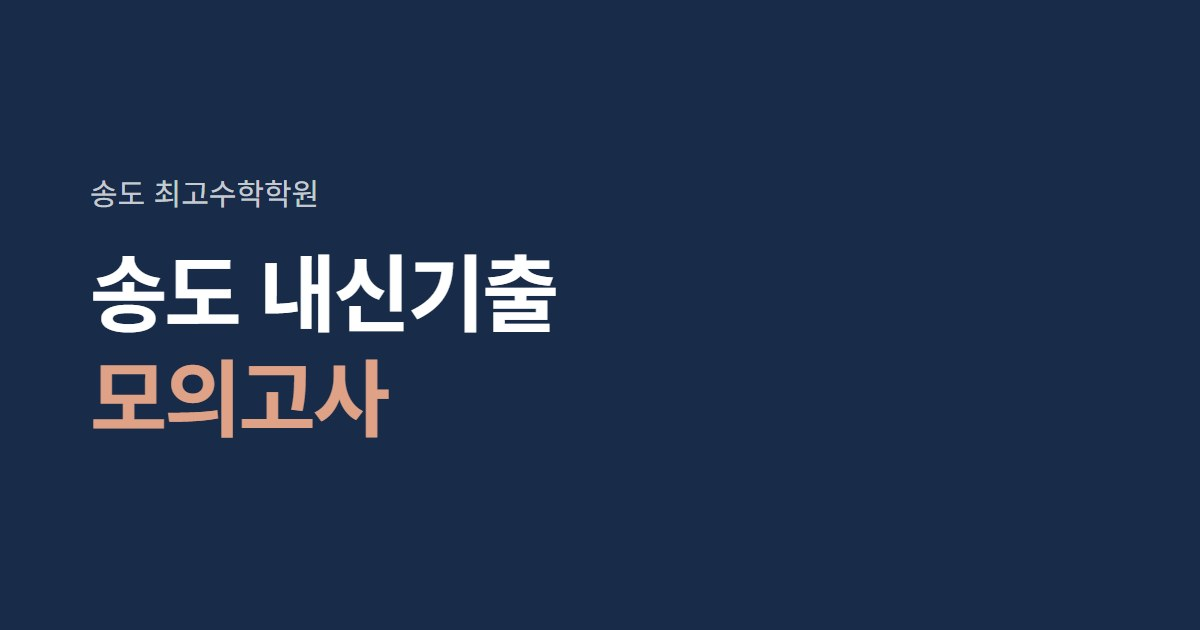
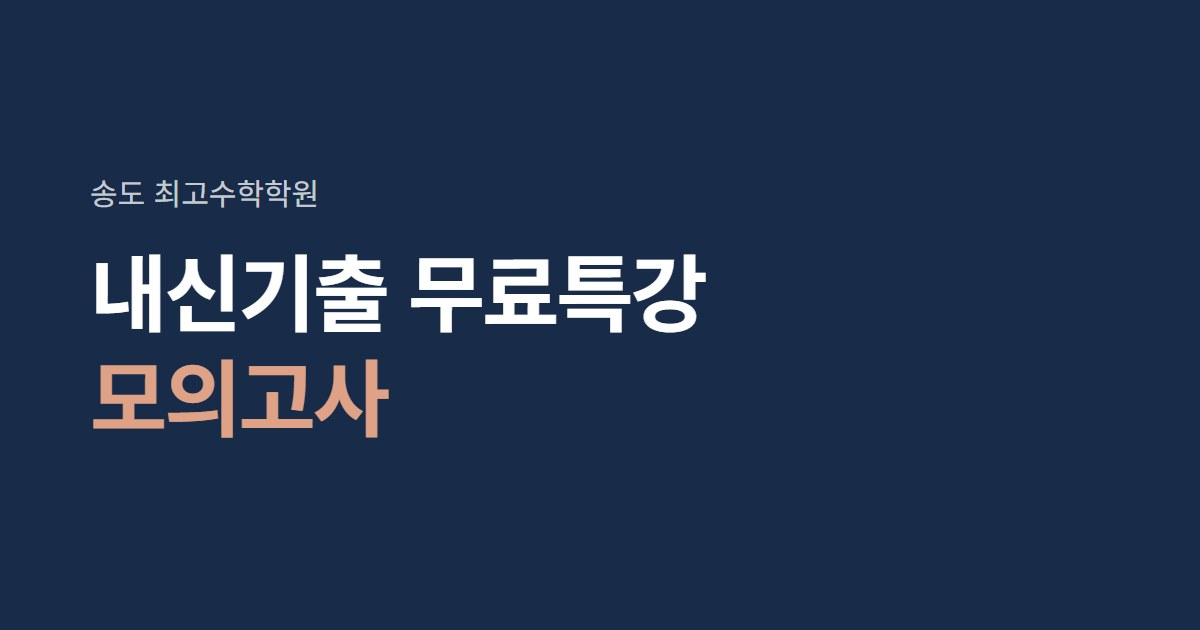
내신기출 무료특강·모의고사 신청 통합

Changed region(s): [[0.0617, 0.3921, 0.5858, 0.5429]]

diff --git a/mock-exam/index.html b/mock-exam/index.html
@@ -3,11 +3,11 @@
 <head>
 <meta charset="utf-8">
 <meta name="viewport" content="width=device-width,initial-scale=1,viewport-fit=cover">
-<title>송도 내신기출 모의고사 신청 · 송도 최고수학학원</title>
-<meta name="description" content="매주 토요일 예비고1 재원생 대상 송도 내신기출 모의고사 신청">
+<title>내신기출 무료특강·모의고사 신청 · 송도 최고수학학원</title>
+<meta name="description" content="해설강의 일정 안내와 송도 내신기출 모의고사·무료특강 신청">
 <meta property="og:type" content="website">
-<meta property="og:title" content="송도 내신기출 모의고사 신청">
-<meta property="og:description" content="매주 토요일 10:00 · 11:00 · 12:00 · 13:00 · 예비고1 재원생">
+<meta property="og:title" content="내신기출 무료특강·모의고사 신청">
+<meta property="og:description" content="11/14 ~ 12/19 · 학교별 해설강의 일정과 신청">
 <meta property="og:url" content="https://best-eight-gold.vercel.app/mock-exam/">
 <meta property="og:image" content="https://best-eight-gold.vercel.app/mock-exam/og.jpg?v=20261031">
 <meta property="og:image:width" content="1200">
@@ -67,6 +67,10 @@ h2{font-size:21px;font-weight:700;letter-spacing:-.5px;margin-top:6px}
 .two{display:grid;grid-template-columns:1fr 1fr;gap:10px}
 .slots{margin-top:8px;display:grid;grid-template-columns:1fr 1fr;gap:8px}
 .slots.t4{grid-template-columns:repeat(4,1fr)}
+.slots.t3{grid-template-columns:repeat(3,1fr)}
+.sch{width:100%;border-collapse:collapse;margin-top:14px;font-size:14px;border-top:1px solid var(--navy)}
+.sch th,.sch td{padding:8px 4px;border-bottom:1px solid var(--line);text-align:left;white-space:nowrap}
+.sch th{color:var(--sub);font-weight:500;font-size:13px}
 .sd{grid-column:1/-1;font-size:13.5px;font-weight:700;margin-top:6px}
 .slots label{position:relative;border:1px solid var(--mute);padding:11px 4px;text-align:center;font-size:14.5px;cursor:pointer;white-space:nowrap;background:#fff}
 .slots input{position:absolute;opacity:0;pointer-events:none}
@@ -95,7 +99,7 @@ header.hub h1{font-size:26px;margin-top:18px}
 .tile{position:relative;display:block;background:var(--paper);color:inherit;text-decoration:none;padding:14px 44px 14px 16px;margin-bottom:10px}
 .tile:active{background:var(--line)}
 @media (hover:hover){.tile:hover{background:var(--line)}}
-.tile .tt{display:block;font-size:17px;font-weight:700;letter-spacing:-.4px;white-space:nowrap}
+.tile .tt{display:block;font-size:16.5px;font-weight:700;letter-spacing:-.4px;white-space:nowrap}
 .tile .meta{display:block;font-size:13px;color:var(--sub);margin-top:2px;white-space:nowrap}
 .tile .go{position:absolute;right:16px;top:50%;transform:translateY(-50%)}
 main.tiles+footer{margin-top:8px;padding:12px 0 14px;background:#fff;font-size:11px;line-height:1.6}
@@ -107,35 +111,37 @@ main.tiles+footer{margin-top:8px;padding:12px 0 14px;background:#fff;font-size:1
   <div class="brand"><img src="/mock-exam/logo.png" alt="최고수학학원"><span>2027 예비고1 학부모</span></div>
   <a class="back" href="/pre-high/">← 예비고1 11월 안내</a>
   <span class="k">MOCK EXAM</span>
-  <h1><em>송도 내신기출</em><br>모의고사 신청</h1>
-  <p class="lead">해설강의를 듣기 전에 직접 풀어 봅니다. 고1 내신 시험을 입학 전에 미리 경험합니다.</p>
-  <dl><div><dt>일정</dt><dd><span class="nw">매주 토요일</span> · <span class="nw">11/14 ~ 12/19</span></dd></div><div><dt>시간</dt><dd><span class="nw">10:00 · 11:00 · 12:00 · 13:00</span> 중 선택 · <span class="nw">시험 50분</span></dd></div><div><dt>대상</dt><dd>최고수학학원 예비고1 재원생 누구나</dd></div><div><dt>장소</dt><dd>중고등관 6번 강의실</dd></div><div><dt>비용</dt><dd>응시료 없음</dd></div></dl><a class="cta" href="#apply">모의고사 신청하기</a>
+  <h1><em>내신기출 무료특강</em><br>모의고사 신청</h1>
+  <p class="lead">송도 내신기출 모의고사를 직접 풀어 본 뒤, 해설강의를 무료로 듣습니다.</p>
+  <dl><div><dt>일정</dt><dd><span class="nw">매주 토요일</span> · <span class="nw">11/14 ~ 12/19</span></dd></div><div><dt>시간</dt><dd><span class="nw">10:00 · 11:00 · 12:00 · 13:00</span> 중 선택 · <span class="nw">시험 50분</span></dd></div><div><dt>대상</dt><dd>최고수학학원 예비고1 재원생 누구나</dd></div><div><dt>장소</dt><dd>시험: 중고등관 6번 강의실</dd></div><div><dt>비용</dt><dd>응시료 없음 · 해설강의 무료</dd></div></dl><a class="cta" href="#apply">한 번에 신청하기</a>
 </div></header>
 <main class="wrap">
 <section>
-  <span class="k">HOW IT WORKS</span><h2>시험을 본 뒤 해설강의를 듣습니다</h2>
-  <ol class="steps">
-    <li><b>시험</b> · 토요일 고른 시간에 응시</li>
-    <li><b>해설강의</b> · 고1 내신기출반<br><span class="nw">A반 토 13:00~14:30</span> · <span class="nw">B반 토 14:30~16:00</span></li>
-  </ol>
+  <span class="k">SCHEDULE</span><h2>해설강의 일정</h2>
+  <p class="desc">시험을 본 뒤 해설강의를 듣습니다. 내용이 달라 여러 반을 함께 신청할 수 있습니다.</p>
+  <table class="sch"><tr><th>토요일</th><th>A반 13:00</th><th>B반 14:30</th></tr><tr><td>11/14</td><td>대건고</td><td>옥련여고</td></tr><tr><td>11/21</td><td>박문여고</td><td>연송고</td></tr><tr><td>11/28</td><td>포스코고</td><td>하늘고</td></tr><tr><td>12/5</td><td>신송고</td><td>해송고</td></tr><tr><td>12/12</td><td>연송고</td><td>연수여고</td></tr><tr><td>12/19</td><td>인천여고</td><td>송도고</td></tr></table>
+  <p class="desc">A·B반: 중고등관 4번 강의실</p>
+  <table class="sch"><tr><th>C반 목 17:00</th><th>학교 시험지</th><th>시험(토)</th></tr><tr><td>11/19</td><td>인천외고</td><td>11/14</td></tr><tr><td>11/26</td><td>미추홀외고</td><td>11/21</td></tr><tr><td>12/3</td><td>국제고</td><td>11/28</td></tr><tr><td>12/10</td><td>신송고</td><td>12/5</td></tr><tr><td>12/17</td><td>송도고</td><td>12/12</td></tr></table>
+  <p class="desc">C반: 1공구 하이퍼관 6번 강의실</p>
   <div class="box"><p>해설강의는 프리윈터 수강 여부와 관계없이 무료입니다.</p><p>내신기출반 A, 대수 개념 특강, 집중 케어반 등 토요일 수업과 겹치지 않는 시간을 골라 주세요.</p><p>시험은 개인 일정에 맞춰 다른 학교 시험지로 대체할 수 있습니다.</p><p>목요일 C반 학생은 해설강의 전주 토요일에 시험을 봅니다. 일정이 맞지 않으면 학원으로 개별 문의해 주세요.</p></div>
 </section>
 <section id="apply">
-  <span class="k">APPLY</span><h2>모의고사 신청</h2>
+  <span class="k">APPLY</span><h2>모의고사·무료특강 신청</h2>
   <form class="f" id="f" novalidate>
     <div class="q"><label for="student">학생 이름<i>*</i></label><input id="student" type="text" name="student" maxlength="20" autocomplete="off"></div>
     <div class="two"><div class="q"><label for="school">학교<i>*</i></label><input id="school" type="text" name="school" maxlength="20" placeholder="예) 최고중"></div>
       <div class="q"><label for="grade">학년</label><select id="grade" name="grade"><option>중3</option><option>기타</option></select></div></div>
     <div class="q"><label for="phone">학부모 연락처<i>*</i></label><input id="phone" type="tel" name="phone" inputmode="tel" maxlength="13" placeholder="010-0000-0000"></div>
-    <div class="q"><span class="ql">응시 시간<i>*</i></span><p class="qh">토요일 다른 수업과 겹치지 않는 시간을 골라 주세요.</p><div class="slots t4"><label><input type="radio" name="time" value="10:00">10:00</label><label><input type="radio" name="time" value="11:00">11:00</label><label><input type="radio" name="time" value="12:00">12:00</label><label><input type="radio" name="time" value="13:00">13:00</label></div></div>
+    <div class="q"><span class="ql">해설강의 반</span><p class="qh">듣는 반을 모두 골라 주세요.</p><div class="slots t3"><label><input type="checkbox" name="cls" value="A반">A반<small>토 13:00</small></label><label><input type="checkbox" name="cls" value="B반">B반<small>토 14:30</small></label><label><input type="checkbox" name="cls" value="C반">C반<small>목 17:00</small></label></div></div>
+    <div class="q"><span class="ql">응시 시간<i>*</i></span><p class="qh">토요일 다른 수업과 겹치지 않는 시간을 골라 주세요.</p><div class="slots t4"><label><input type="radio" name="time" value="10:00">10:00</label><label><input type="radio" name="time" value="11:00">11:00</label><label><input type="radio" name="time" value="12:00">12:00</label><label><input type="radio" name="time" value="13:00">13:00</label><label style="grid-column:1/-1"><input type="radio" name="time" value="별도 문의">일정이 맞지 않아 별도 문의</label></div></div>
     <div class="q"><span class="ql">응시할 토요일<i>*</i></span><p class="qh">오지 못하는 날은 눌러서 해제해 주세요.</p><div class="slots t4"><label><input type="checkbox" name="date" value="11/14" checked>11/14</label><label><input type="checkbox" name="date" value="11/21" checked>11/21</label><label><input type="checkbox" name="date" value="11/28" checked>11/28</label><label><input type="checkbox" name="date" value="12/5" checked>12/5</label><label><input type="checkbox" name="date" value="12/12" checked>12/12</label><label><input type="checkbox" name="date" value="12/19" checked>12/19</label></div></div>
     <div class="q"><label for="memo">문의 사항</label><textarea id="memo" name="memo" maxlength="300" placeholder="궁금한 점 등"></textarea></div>
     <div class="hp" aria-hidden="true"><input type="text" name="website" tabindex="-1" autocomplete="off"></div>
-    <label class="agree"><input type="checkbox" name="agree"><span><b>[필수] 개인정보 수집·이용 동의 (학부모 작성)</b><br>수집 주체: 송도 최고수학학원 · 수집 항목: 학생 이름·학교·학년, 학부모 연락처, 응시 시간·날짜, 문의 사항 · 목적: 송도 내신기출 모의고사 응시 신청·안내 · 보유·이용 기간: 모의고사 종료(12/19) 후 3개월 이내 파기 · 신청 정보는 학원 구글 계정 시트에 저장됩니다 · 동의를 거부하실 수 있으며, 거부하시면 온라인 신청은 어렵고 전화(032-833-2343)로 신청하실 수 있습니다.</span></label>
+    <label class="agree"><input type="checkbox" name="agree"><span><b>[필수] 개인정보 수집·이용 동의 (학부모 작성)</b><br>수집 주체: 송도 최고수학학원 · 수집 항목: 학생 이름·학교·학년, 학부모 연락처, 응시 시간·날짜, 해설강의 반, 문의 사항 · 목적: 송도 내신기출 모의고사 응시·해설강의 신청과 안내 · 보유·이용 기간: 모의고사 종료(12/19) 후 3개월 이내 파기 · 신청 정보는 학원 구글 계정 시트에 저장됩니다 · 동의를 거부하실 수 있으며, 거부하시면 온라인 신청은 어렵고 전화(032-833-2343)로 신청하실 수 있습니다.</span></label>
     <button class="btn" id="send" type="submit">신청서 보내기</button>
     <p class="err" id="err" role="alert"></p>
   </form>
-  <div class="done" id="done"><h2>신청이 접수되었습니다</h2><dl id="doneList"></dl><p class="desc">장소: 중고등관 6번 강의실<br>문의 <a href="tel:0328332343" class="nw">032-833-2343</a></p></div>
+  <div class="done" id="done"><h2>신청이 접수되었습니다</h2><dl id="doneList"></dl><p class="desc">시험 장소: 중고등관 6번 강의실<br>문의 <a href="tel:0328332343" class="nw">032-833-2343</a></p></div>
 </section>
 </main>
 <footer><div class="wrap">
@@ -153,13 +159,13 @@ $('#f').addEventListener('submit',async ev=>{ev.preventDefault();
   if(!v('student')||!v('school'))return err.textContent='학생 이름과 학교를 입력해 주세요.';
   const phone=phoneOf(v('phone'));if(!phone)return err.textContent='학부모 연락처를 확인해 주세요.';
   const time=(f.querySelector('[name=time]:checked')||{}).value||'';if(!time)return err.textContent='응시 시간을 골라 주세요.';
-  const dates=[...f.querySelectorAll('[name=date]:checked')].map(x=>x.value);if(!dates.length)return err.textContent='응시할 토요일을 하나 이상 골라 주세요.';
+  const ask=time==='별도 문의',dates=ask?[]:[...f.querySelectorAll('[name=date]:checked')].map(x=>x.value),classes=[...f.querySelectorAll('[name=cls]:checked')].map(x=>x.value);if(!ask&&!dates.length)return err.textContent='응시할 토요일을 하나 이상 골라 주세요.';
   if(!f.agree.checked)return err.textContent='개인정보 수집·이용에 동의해 주세요.';
-  const data={kind:'mock',student:v('student'),school:v('school'),grade:v('grade'),phone,time,dates,memo:v('memo'),agree:true,website:v('website')};
+  const data={kind:'mock',student:v('student'),school:v('school'),grade:v('grade'),phone,time,dates,classes,memo:v('memo'),agree:true,website:v('website')};
   b.disabled=true;b.textContent='보내는 중…';err.textContent='';
   try{const r=await fetch(ENDPOINT,{method:'POST',headers:{'Content-Type':'text/plain;charset=utf-8'},body:JSON.stringify(data)}),j=await r.json();
     if(!j.ok)throw 0;
-    showDone([['학생',data.student],['시간','토요일 '+time],['날짜',dates.join(' · ')]])}
+    showDone([['학생',data.student],['시험',ask?'별도 문의':'토요일 '+time],...(ask?[]:[['날짜',dates.join(' · ')]]),...(classes.length?[['해설강의',classes.join(' · ')]]:[])])}
   catch(e){failed(b,err)}
 });
 </script>

diff --git a/pre-high/index.html b/pre-high/index.html
@@ -67,6 +67,10 @@ h2{font-size:21px;font-weight:700;letter-spacing:-.5px;margin-top:6px}
 .two{display:grid;grid-template-columns:1fr 1fr;gap:10px}
 .slots{margin-top:8px;display:grid;grid-template-columns:1fr 1fr;gap:8px}
 .slots.t4{grid-template-columns:repeat(4,1fr)}
+.slots.t3{grid-template-columns:repeat(3,1fr)}
+.sch{width:100%;border-collapse:collapse;margin-top:14px;font-size:14px;border-top:1px solid var(--navy)}
+.sch th,.sch td{padding:8px 4px;border-bottom:1px solid var(--line);text-align:left;white-space:nowrap}
+.sch th{color:var(--sub);font-weight:500;font-size:13px}
 .sd{grid-column:1/-1;font-size:13.5px;font-weight:700;margin-top:6px}
 .slots label{position:relative;border:1px solid var(--mute);padding:11px 4px;text-align:center;font-size:14.5px;cursor:pointer;white-space:nowrap;background:#fff}
 .slots input{position:absolute;opacity:0;pointer-events:none}
@@ -95,7 +99,7 @@ header.hub h1{font-size:26px;margin-top:18px}
 .tile{position:relative;display:block;background:var(--paper);color:inherit;text-decoration:none;padding:14px 44px 14px 16px;margin-bottom:10px}
 .tile:active{background:var(--line)}
 @media (hover:hover){.tile:hover{background:var(--line)}}
-.tile .tt{display:block;font-size:17px;font-weight:700;letter-spacing:-.4px;white-space:nowrap}
+.tile .tt{display:block;font-size:16.5px;font-weight:700;letter-spacing:-.4px;white-space:nowrap}
 .tile .meta{display:block;font-size:13px;color:var(--sub);margin-top:2px;white-space:nowrap}
 .tile .go{position:absolute;right:16px;top:50%;transform:translateY(-50%)}
 main.tiles+footer{margin-top:8px;padding:12px 0 14px;background:#fff;font-size:11px;line-height:1.6}
@@ -111,7 +115,7 @@ main.tiles+footer{margin-top:8px;padding:12px 0 14px;background:#fff;font-size:1
   <a class="tile" href="/prewinter/"><span class="tt">프리윈터 신청</span><span class="meta">11/9(월) ~ 12/29(화)</span><span class="go" aria-hidden="true">→</span></a>
   <a class="tile" href="/hs-briefing/"><span class="tt">고교 선택 설명회 신청</span><span class="meta">11/3 · 5 · 10 · 12 · 17 저녁 7시</span><span class="go" aria-hidden="true">→</span></a>
   <a class="tile" href="/workshop/"><span class="tt">최고의 워크샵 신청</span><span class="meta">11/7(토) · 8(일) · 재원생</span><span class="go" aria-hidden="true">→</span></a>
-  <a class="tile" href="/mock-exam/"><span class="tt">송도 내신기출 모의고사 신청</span><span class="meta">매주 토요일 · 예비고1 재원생</span><span class="go" aria-hidden="true">→</span></a>
+  <a class="tile" href="/mock-exam/"><span class="tt">내신기출 무료특강·모의고사 신청</span><span class="meta">11/14 ~ 12/19 · 예비고1 재원생</span><span class="go" aria-hidden="true">→</span></a>
 </main>
 <footer><div class="wrap">
   송도 최고수학학원 · 인천동부교육청 제3680호 · 교습과정 초등·중등·고등 · 교습과목 수학 · 문의 <a href="tel:0328332343" class="nw">032-833-2343</a><br>

diff --git a/prewinter/index.html b/prewinter/index.html
@@ -389,7 +389,7 @@ footer{margin-top:28px;padding:16px 0 8px;border-top:1px solid var(--line);font-
         <p class="pd">2026년 고1이 실제로 본 내신 시험지로, 입학 전에 고등 시험을 미리 경험합니다.</p>
         <ol class="steps"><li><b>시험</b> 토 10:00 · 11:00 · 12:00 · 13:00 중 선택 · 50분</li><li><b>해설강의</b> 고1 내신기출반</li></ol>
         <span class="when"><span class="nw">매주 토요일 11/14 ~ 12/19</span><br><span class="nw">중고등관 6번 강의실</span></span>
-        <a class="btn full" href="/mock-exam/" style="margin-top:12px;display:block;text-align:center;text-decoration:none">모의고사 신청하기</a></div>
+        <a class="btn full" href="/mock-exam/" style="margin-top:12px;display:block;text-align:center;text-decoration:none">모의고사·무료특강 신청하기</a></div>
     </div>
     <div class="pc">
       <div class="pn" style="background:#E2574C">02</div>
@@ -569,7 +569,7 @@ function openDetail(no){
    <div><dt>요일·시간</dt><dd>${x.dy} ${x.tm}</dd></div><div><dt>기간</dt><dd>${x.pd||'11/9(월) ~ 12/29(화)'}${x.n!=='—'?' · '+x.n:''}</dd></div>
    <div><dt>장소</dt><dd>${x.rm.startsWith('1공구')?x.rm:x.rm==='추후 안내'?'중고등관 (강의실 추후 안내)':x.rm+' 강의실'}</dd></div>${x.tc?`<div><dt>강사</dt><dd>${x.tc}</dd></div>`:''}
    <div><dt>교습비</dt><dd><b>${x.n} ${isFree(no)?'무료':x.fee.toLocaleString('ko-KR')+'원'}</b></dd></div></dl>
-   ${x.sch?`<table class="sch"><tr><th>해설강의</th><th>학교 시험지</th>${x.sch[0][2]?'<th>시험</th>':''}</tr>${x.sch.map(r=>`<tr>${r.map(c=>`<td>${c}</td>`).join('')}</tr>`).join('')}</table>`:''}
+   ${x.sch?`<table class="sch"><tr><th>해설강의</th><th>학교 시험지</th>${x.sch[0][2]?'<th>시험</th>':''}</tr>${x.sch.map(r=>`<tr>${r.map(c=>`<td>${c}</td>`).join('')}</tr>`).join('')}</table><a class="btn full" href="/mock-exam/#apply" style="margin-top:10px;display:block;text-align:center;text-decoration:none">모의고사·무료특강 신청하기</a>`:''}
    ${x.ex.length?`<div class="box warn"><ul>${x.ex.map(e=>`<li>${e}</li>`).join('')}</ul></div>`:''}
    <p class="err" id="clash">${clashMsg(no)}</p>
    <div class="act"><button class="btn ghost" id="close2">목록으로</button><button class="btn" id="tog">${inC?'담기 취소':'이 강좌 담기'}</button></div>`);
